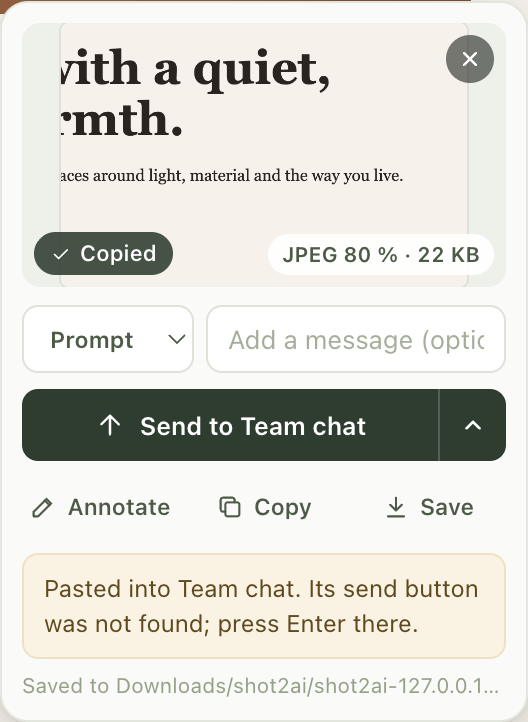
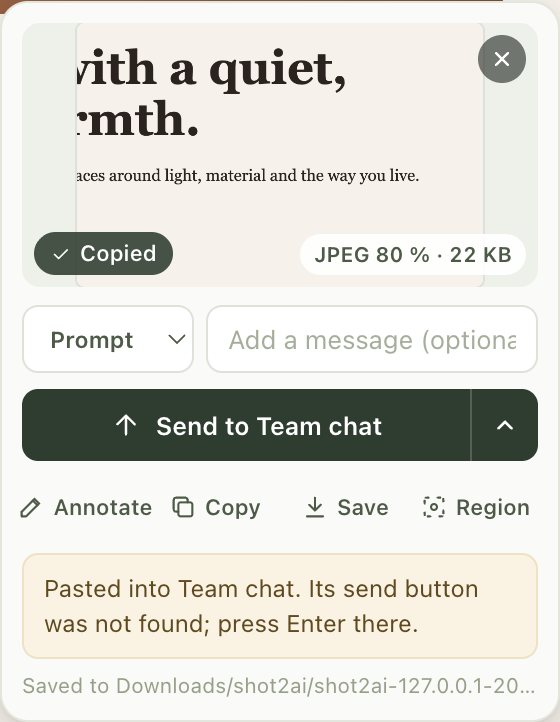
Saved region: remember an area per site and capture it again in one step
The card's Region menu remembers an area capture's region for its site, as
fractions of the viewport. Capture saved region (card, right-click menu,
Alt+Shift+R) crops the visible page to it, clamped to the current viewport;
with none saved it starts the area selection. The card is 280 px wide to
fit its four tools.

Claude-Session: https://claude.ai/code/session_01Xf7wTz9XZFZ1GCWzDzHaWW

diff --git a/src/card.js b/src/card.js
@@ -7,7 +7,7 @@
   const CSS = `
     :host{all:initial}
     *{box-sizing:border-box}
-    .card{position:fixed;right:20px;bottom:20px;width:264px;padding:10px;border:1px solid #e3e6dd;border-radius:14px;background:#fafaf8;color:#232a23;box-shadow:0 1px 2px rgba(35,42,35,.08),0 14px 40px rgba(35,42,35,.22);font:13px/1.4 ui-sans-serif,-apple-system,BlinkMacSystemFont,"Segoe UI",sans-serif;-webkit-font-smoothing:antialiased;animation:in .18s ease-out}
+    .card{position:fixed;right:20px;bottom:20px;width:280px;padding:10px;border:1px solid #e3e6dd;border-radius:14px;background:#fafaf8;color:#232a23;box-shadow:0 1px 2px rgba(35,42,35,.08),0 14px 40px rgba(35,42,35,.22);font:13px/1.4 ui-sans-serif,-apple-system,BlinkMacSystemFont,"Segoe UI",sans-serif;-webkit-font-smoothing:antialiased;animation:in .18s ease-out}
     @keyframes in{from{opacity:0;transform:translateY(10px) scale(.98)}}
     .card.out{opacity:0;transform:translateY(10px);transition:opacity .2s,transform .2s}
     button{font:inherit;color:inherit;cursor:pointer;border:0;background:none;padding:0}
@@ -51,7 +51,12 @@
     .tools{display:flex;gap:4px;margin-top:8px}
     .tools button{flex:1;display:flex;align-items:center;justify-content:center;gap:5px;height:30px;border-radius:7px;color:#4d5a47;font-size:11.5px;font-weight:560}
     .tools button:hover{background:#eef0ea}
-    .tools svg{width:14px;height:14px}
+    .tools svg{flex:none;width:14px;height:14px}
+    .tools{gap:2px}
+    .tools button{min-width:0;padding:0 3px;gap:4px;font-size:11px;white-space:nowrap}
+    .region-menu{margin-top:4px;padding:4px;border:1px solid #e3e6dd;border-radius:9px;background:#fff}
+    .region-menu button{display:block;width:100%;padding:7px 8px;border-radius:6px;text-align:left;font-size:12px}
+    .region-menu button:hover:not(:disabled){background:#f1f3ee}
     .result{margin-top:8px;padding:8px 10px;border:1px solid #e3e6dd;border-radius:8px;background:#fff;font-size:12px;line-height:1.45}
     .result.ok{border-color:#d5e3c8;background:#edf3e7;color:#34502a}
     .result.warn{border-color:#efe2c2;background:#faf3e3;color:#5f4a1f}
@@ -86,6 +91,11 @@
         <button class="annotate" title="Open in the editor to draw arrows, boxes and text">${i.annotate}Annotate</button>
         <button class="copy" title="Copy to the clipboard">${i.copy}Copy</button>
         <button class="save" title="Save a copy">${i.download}Save</button>
+        <button class="region" title="Remember this region, or capture the saved one" aria-haspopup="menu">${i.region}Region</button>
+      </div>
+      <div class="region-menu" role="menu" hidden>
+        <button class="remember" role="menuitem">Remember this region</button>
+        <button class="capture-saved" role="menuitem">Capture saved region</button>
       </div>
       <div class="result" role="status" hidden></div>
       <div class="saved" hidden></div>
@@ -106,7 +116,7 @@
 
     createImageBitmap(png).then((bitmap) => {
       const canvas = $('canvas');
-      const room = Math.min(244 / bitmap.width, 132 / bitmap.height, 1);
+      const room = Math.min(260 / bitmap.width, 132 / bitmap.height, 1);
       canvas.width = Math.round(bitmap.width * room * 2);
       canvas.height = Math.round(bitmap.height * room * 2);
       canvas.style.width = `${canvas.width / 2}px`;
@@ -298,6 +308,17 @@
     $('.annotate').addEventListener('click', () => { chrome.runtime.sendMessage({ type: 'annotate', id: o.id, text: input.value.trim() }); dismiss(); });
     $('.copy').addEventListener('click', async () => chip((await copy(false)) ? 'Copied' : ''));
     $('.save').addEventListener('click', () => void save());
+    // A remembered region is per site; Alt+Shift+R and the right-click menu capture it too.
+    const regionMenu = $('.region-menu');
+    $('.remember').hidden = !o.region?.canRemember;
+    $('.capture-saved').disabled = !o.region?.hasSaved;
+    $('.region').addEventListener('click', () => { regionMenu.hidden = !regionMenu.hidden; });
+    $('.remember').addEventListener('click', async () => {
+      const r = await chrome.runtime.sendMessage({ type: 'remember-region', id: o.id });
+      regionMenu.hidden = true;
+      if (r?.ok) { o.region.hasSaved = true; $('.capture-saved').disabled = false; chip('Region remembered'); }
+    });
+    $('.capture-saved').addEventListener('click', () => { dismiss(); chrome.runtime.sendMessage({ type: 'capture-saved' }); });
 
     if (o.text) input.value = o.text;
     // A saved prompt fills the message; it can still be edited.

diff --git a/src/flow.js b/src/flow.js
@@ -28,12 +28,15 @@ export async function showCard(tabId, id, capture, { text = '', autoSend = false
   const main = { ...brief(chosen || COPY_ONLY), label: actionLabel(chosen) };
   // What a send to a web chat or a save will weigh, in the chosen format.
   const meta = describe(await encode(capture.png, s), s);
-  const pick = ['close', 'check', 'send', 'chevron', 'annotate', 'copy', 'download', 'retry'];
+  const pick = ['close', 'check', 'send', 'chevron', 'annotate', 'copy', 'download', 'retry', 'region'];
+  let site = null;
+  try { site = new URL(capture.url).origin; } catch { /* a pasted image */ }
+  const region = { canRemember: !!(capture.region && site), hasSaved: !!(site && s.regions[site]) };
   await chrome.scripting.executeScript({ target: { tabId }, files: ['src/card.js'] });
   await chrome.scripting.executeScript({
     target: { tabId },
     func: (o) => window.__shot2aiShowCard(o),
-    args: [{ id, png: await base64(capture.png), scale: capture.scale, destinations: list, multi: s.multiSend.filter((d) => list.some((x) => x.id === d)), main, meta, text: text || await defaultPromptText(), prompts: (await prompts()).map(({ name, text: t }) => ({ name, text: t })), autoSend, acknowledged: s.acknowledged, saved, mod: (await isMac()) ? '⌘' : 'Ctrl+', icons: Object.fromEntries(pick.map((k) => [k, icons[k]])) }],
+    args: [{ id, png: await base64(capture.png), scale: capture.scale, destinations: list, region, multi: s.multiSend.filter((d) => list.some((x) => x.id === d)), main, meta, text: text || await defaultPromptText(), prompts: (await prompts()).map(({ name, text: t }) => ({ name, text: t })), autoSend, acknowledged: s.acknowledged, saved, mod: (await isMac()) ? '⌘' : 'Ctrl+', icons: Object.fromEntries(pick.map((k) => [k, icons[k]])) }],
   });
 }
 
@@ -62,6 +65,17 @@ export async function cardSend(message) {
   const blob = await encode(capture.png, s);
   const r = await pasteIntoChat(destination, blob, message.text, fileName(s.filenamePattern, capture.url, new Date(), EXTENSIONS[blob.type]));
   return r.ok ? { ...r, text: chatResultText(destination.name, r) } : r;
+}
+
+// "Remember this region": the area capture's region, kept for its site.
+export async function rememberRegion(message) {
+  const capture = await getCapture(message.id);
+  let site = null;
+  try { site = new URL(capture?.url).origin; } catch { /* no page address */ }
+  if (!capture?.region || !site) return { failed: true };
+  const { regions } = await settings();
+  await update({ regions: { ...regions, [site]: capture.region } });
+  return { ok: true };
 }
 
 // Several destinations at once. html2wp goes through the bridge while the web

diff --git a/src/capture.js b/src/capture.js
@@ -42,8 +42,35 @@ export async function cropSelection(id, rect, viewport) {
   canvas.getContext('2d').drawImage(bitmap, x, y, width, height, 0, 0, width, height);
   bitmap.close();
   const png = await canvas.convertToBlob({ type: 'image/png' });
-  await updateCapture(id, { shot: null, png, width, height, scale });
-  return { ...capture, png, scale };
+  // The area as fractions of the viewport, for "Remember this region".
+  const region = { x: rect.x / viewport.width, y: rect.y / viewport.height, w: rect.width / viewport.width, h: rect.height / viewport.height };
+  await updateCapture(id, { shot: null, png, width, height, scale, region });
+  return { ...capture, png, scale, region };
+}
+
+// The site's remembered region, cut out of a capture of the visible page and
+// clamped to the viewport as it is now. Without one, the owner drags an area.
+export async function captureSavedRegion(tab) {
+  const { regions = {} } = await chrome.storage.local.get('regions');
+  let site = null;
+  try { site = new URL(tab.url).origin; } catch { /* no page address */ }
+  const saved = site && regions[site];
+  if (!saved) { await startCapture(tab.id); return null; }
+  const whole = await captureVisible(tab);
+  const bitmap = await createImageBitmap(whole.capture.png);
+  const clamp = (v) => Math.min(1, Math.max(0, v));
+  const [x0, y0] = [clamp(saved.x), clamp(saved.y)];
+  const [x1, y1] = [clamp(saved.x + saved.w), clamp(saved.y + saved.h)];
+  const x = Math.round(x0 * bitmap.width);
+  const y = Math.round(y0 * bitmap.height);
+  const width = Math.max(1, Math.round(x1 * bitmap.width) - x);
+  const height = Math.max(1, Math.round(y1 * bitmap.height) - y);
+  const canvas = new OffscreenCanvas(width, height);
+  canvas.getContext('2d').drawImage(bitmap, x, y, width, height, 0, 0, width, height);
+  bitmap.close();
+  const png = await canvas.convertToBlob({ type: 'image/png' });
+  await updateCapture(whole.id, { png, width, height });
+  return { id: whole.id, capture: { ...whole.capture, png, width, height } };
 }
 
 // The whole visible part of the page, as a capture of its own.

diff --git a/src/menu.js b/src/menu.js
@@ -1,6 +1,6 @@
 // The right-click menu.
 import { destinations, defaultDestination, update, prompts } from './settings.js';
-import { startCapture, captureVisible, captureImage } from './capture.js';
+import { startCapture, captureVisible, captureImage, captureSavedRegion } from './capture.js';
 import { showCard } from './flow.js';
 
 const CONTEXTS = ['page', 'selection', 'image', 'link'];
@@ -13,6 +13,7 @@ export async function menuItems() {
     { id: 'shot2ai', title: 'Shot2AI', contexts: CONTEXTS },
     item('capture-area', 'Capture area…'),
     item('capture-visible', 'Capture visible page'),
+    item('capture-saved', 'Capture saved region'),
     item('sep-1', '', { type: 'separator' }),
     item('send-to', 'Send to'),
     ...list.map((d) => ({ id: `dest:${d.id}`, parentId: 'send-to', title: d.name, type: 'radio', checked: d.id === chosen.id, contexts: CONTEXTS })),
@@ -40,6 +41,11 @@ export async function onMenuClick(info, tab) {
   if (id.startsWith('dest:')) { await update({ defaultDestination: id.slice(5) }); return; }
   if (!tab?.id) return;
   if (id === 'capture-area') { await startCapture(tab.id); return; }
+  if (id === 'capture-saved') {
+    const result = await captureSavedRegion(tab);
+    if (result) await showCard(tab.id, result.id, result.capture);
+    return;
+  }
   if (id === 'send-image' && info.srcUrl) {
     const { id: captureId, capture } = await captureImage(info.srcUrl, tab);
     await showCard(tab.id, captureId, capture);

diff --git a/src/background.js b/src/background.js
@@ -2,8 +2,8 @@
 // and the preview card's requests all arrive here. The card's actions run
 // here, since a content script cannot reach 127.0.0.1 or other tabs.
 import { deleteCapture, getCapture } from './captures.js';
-import { startCapture, cropSelection } from './capture.js';
-import { showCard, openEditor, cardSend, cardSendMany, flagError } from './flow.js';
+import { startCapture, cropSelection, captureSavedRegion } from './capture.js';
+import { showCard, openEditor, cardSend, cardSendMany, rememberRegion, flagError } from './flow.js';
 import { rebuildMenu, onMenuClick } from './menu.js';
 import { saveImage, savedText } from './save.js';
 
@@ -16,9 +16,17 @@ chrome.contextMenus.onClicked.addListener((info, tab) => { onMenuClick(info, tab
 
 chrome.commands.onCommand.addListener((command, tab) => {
   if (command === 'capture-area') startCapture(tab?.id).catch(flagError);
+  if (command === 'capture-saved' && tab) savedRegionCard(tab).catch(flagError);
 });
 
+async function savedRegionCard(tab) {
+  const result = await captureSavedRegion(tab);
+  if (result) await showCard(tab.id, result.id, result.capture);
+}
+
 const handlers = {
+  'remember-region': rememberRegion,
+  'capture-saved': async (m, sender) => { await savedRegionCard(sender.tab); return { ok: true }; },
   capture: (m) => startCapture(m.tabId).then((id) => ({ ok: true, id }), (e) => ({ error: e.message })),
   'card-send': cardSend,
   'card-send-many': cardSendMany,

diff --git a/src/icons.js b/src/icons.js
@@ -15,6 +15,7 @@ export const icons = {
   capture: svg('<path d="M4 8V5.5A1.5 1.5 0 0 1 5.5 4H8M16 4h2.5A1.5 1.5 0 0 1 20 5.5V8M20 16v2.5a1.5 1.5 0 0 1-1.5 1.5H16M8 20H5.5A1.5 1.5 0 0 1 4 18.5V16"/><rect x="8.5" y="8.5" width="7" height="7" rx="1"/>'),
   retry: svg('<path d="M20 12a8 8 0 1 1-2.4-5.7"/><path d="M20 4v5h-5"/>'),
   check: svg('<path d="m5 12.5 4.5 4.5L19 7.5"/>'),
+  region: svg('<path d="M4 9V5.5A1.5 1.5 0 0 1 5.5 4H9M15 4h3.5A1.5 1.5 0 0 1 20 5.5V9M20 15v3.5a1.5 1.5 0 0 1-1.5 1.5H15M9 20H5.5A1.5 1.5 0 0 1 4 18.5V15" stroke-dasharray="2.5 2.5"/><circle cx="12" cy="12" r="2.5"/>'),
   close: svg('<path d="M6 6l12 12M18 6 6 18" stroke-width="2.4"/>'),
   chevron: svg('<path d="m7 14.5 5-5 5 5" stroke-width="2"/>'),
   annotate: svg('<path d="M4 20h4L19 9l-4-4L4 16z"/><path d="m13.5 6.5 4 4"/>'),

diff --git a/src/settings.js b/src/settings.js
@@ -22,6 +22,8 @@ const DEFAULTS = {
   defaultDestination: 'chatgpt',
   // Web chats whose send button Shot2AI presses after pasting (by id). Off unless turned on.
   autoSubmit: {},
+  // Remembered capture regions by site origin, as fractions of the viewport.
+  regions: {},
   // Destinations ticked for "Send to all selected".
   multiSend: [],
   // The prompt that fills the message of every new capture, or null.
